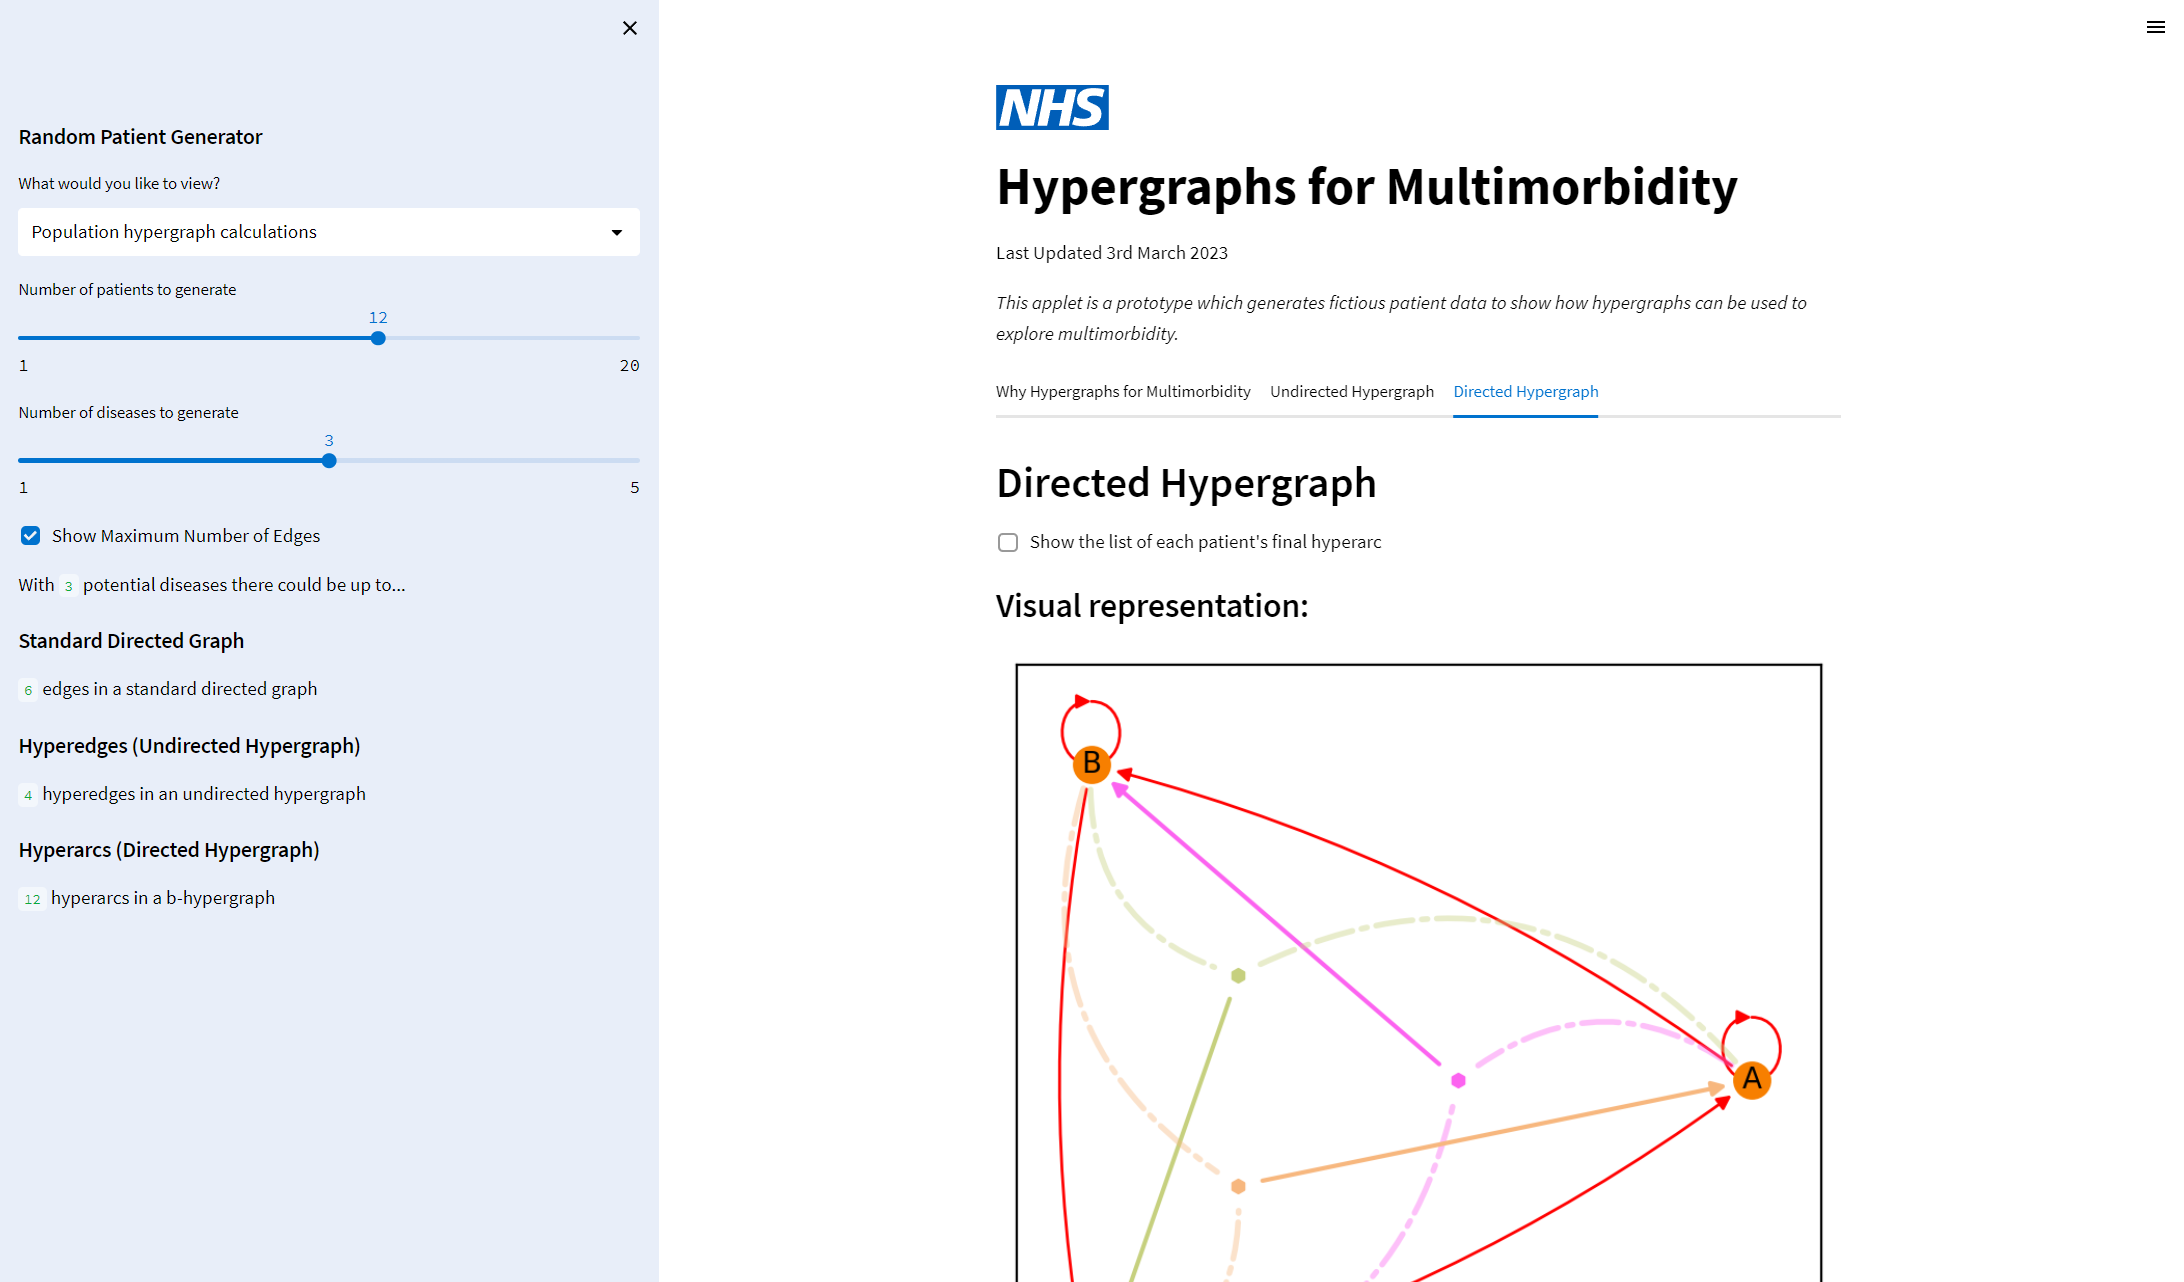
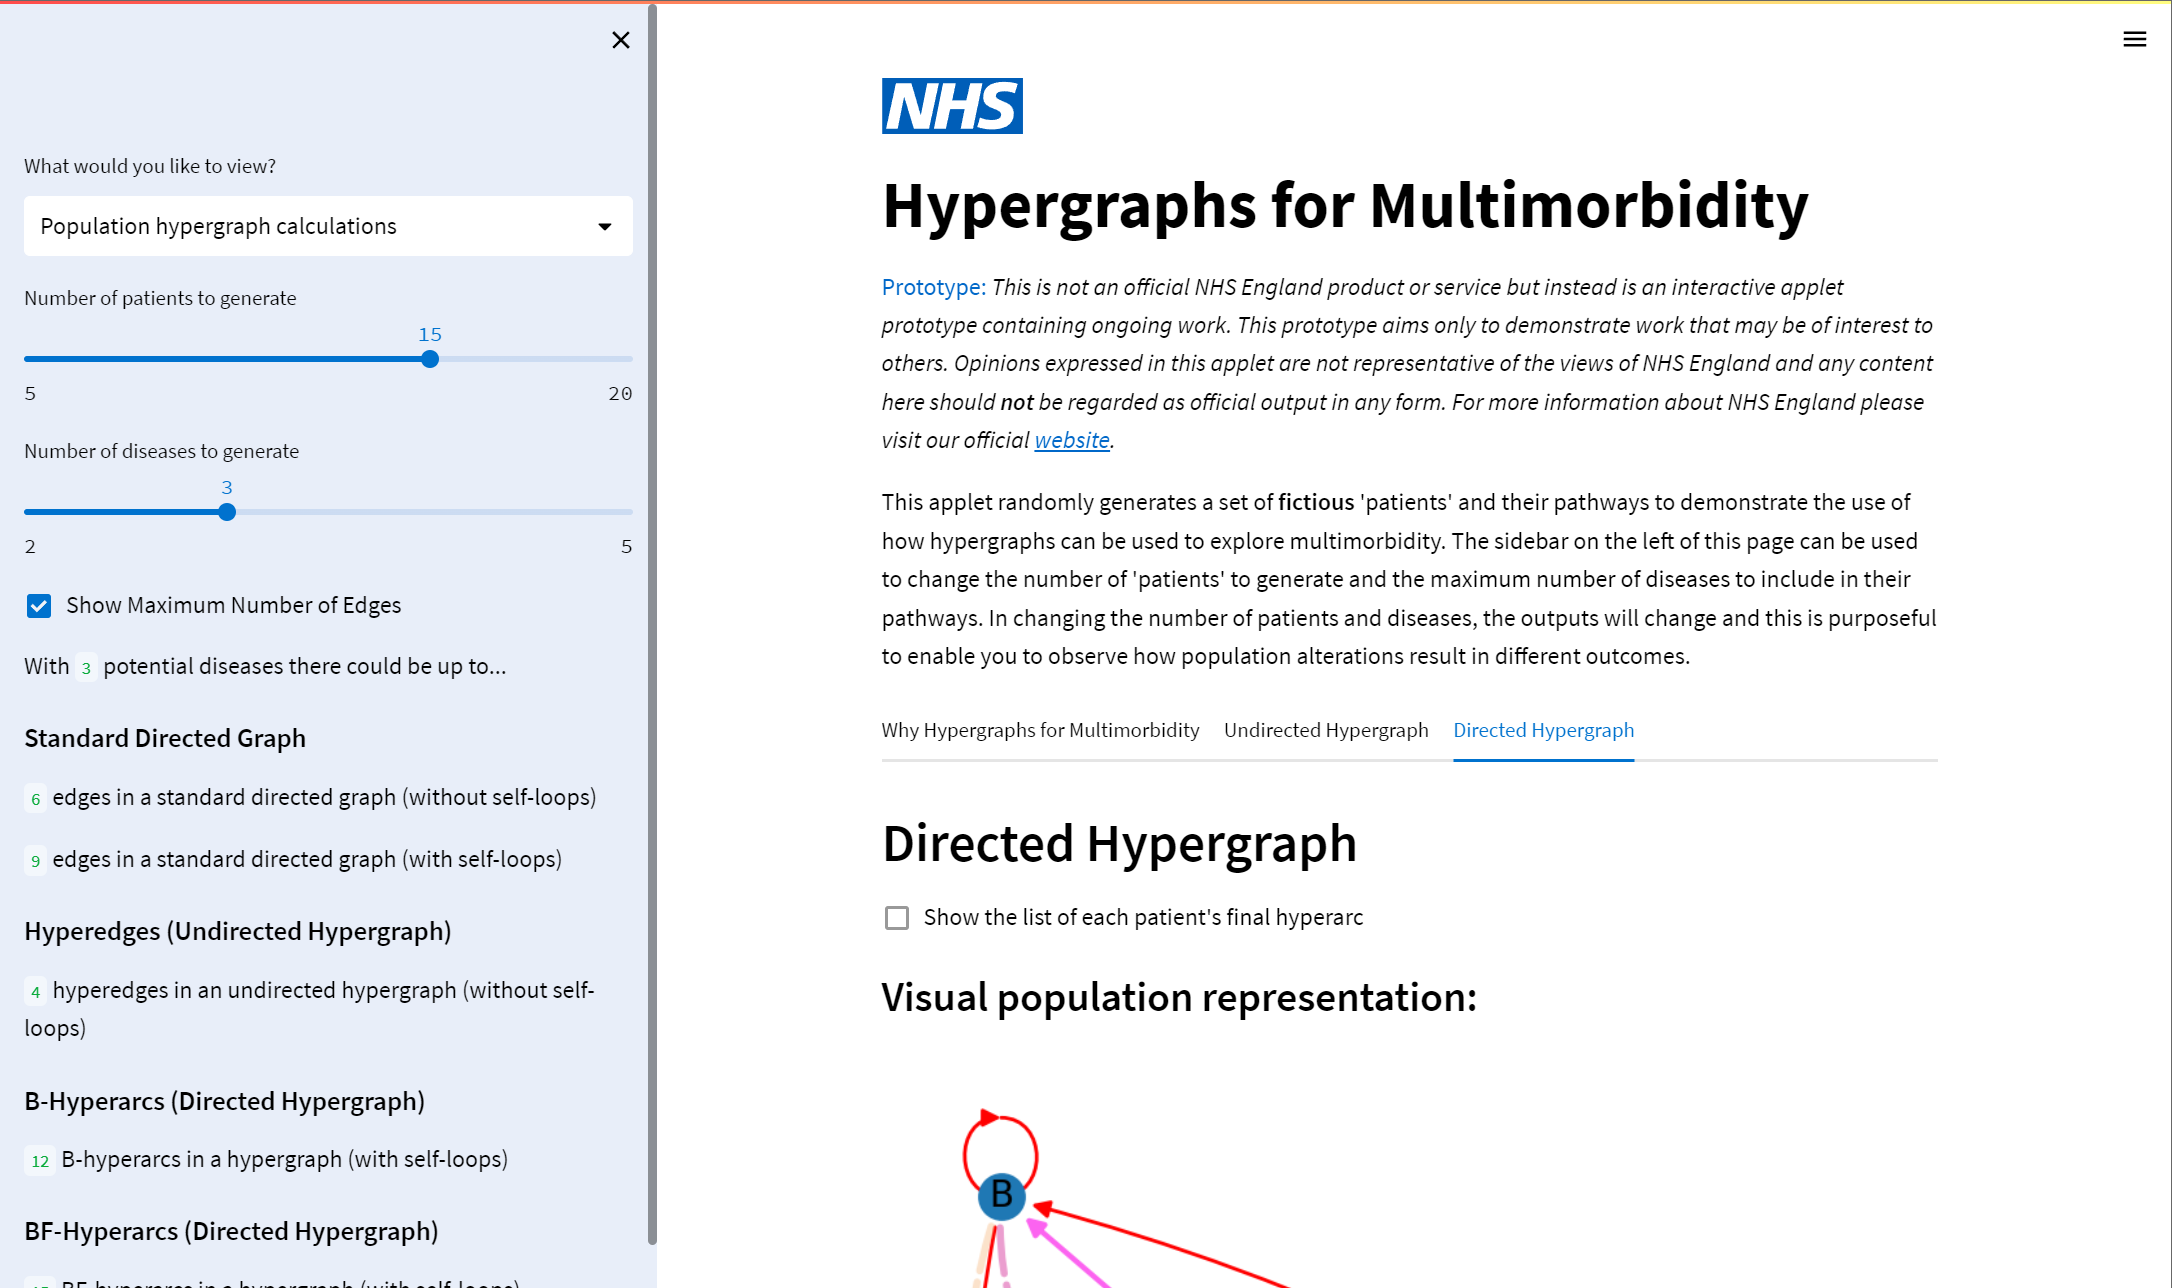
README updated, how to test and disclaimer added.

diff --git a/streamlit_hypergraphs.py b/streamlit_hypergraphs.py
@@ -574,4 +574,4 @@ elif view_choice == "Most likely cause(s) of disease":
 # TODO: NUMBA explained (why we need it and the 3 worklists)
 
 st.markdown("-" * 50)
-st.text("Last Updated 20th April 2023 \t\t\t\t\t Version 0.1.0")
+st.text("Last Updated 28th April 2023 \t\t\t\t\t Version 0.1.0")

diff --git a/README.md b/README.md
@@ -1,4 +1,4 @@
-# Hypergraphs
+# Hypergraphical
 
 A library of animations explaining hypergraphs using manim.
 
@@ -40,15 +40,24 @@ Please find a colab workbook here:
 
 ----------------------
 
-_The section below probably needs integrating in better with the animation stuff, but I've kept it seperate for now_
 
 # Hypergraphs for Multimorbidity
 
 This tool has been built using Streamlit, a Python app framework that can be used to create web apps. This Streamlit app allows users to explore hypergraphs in the context of multimoribidity. 
 
-The Streamlit app explains what multimorbidity is, what hypergraphs are and why hypergraphs are useful for modelling multimoribidity.
+_This is not an official NHS England product or service but instead is an interactive applet prototype containing ongoing work.
+This prototype aims only to demonstrate work that may be of interest to others.
+Opinions expressed in this applet are not representative of the views of NHS England
+and any content here should __not__ be regarded as official output in any form.
+For more information about NHS England please visit our official 
+[website](https://www.england.nhs.uk/)._
 
-Users can input the number of fictious patients and diseases to randomly generate hypergraphs (undirected and directed) to represent the population.
+The Streamlit applet explains what multimorbidity is, what hypergraphs are and why hypergraphs are useful for modelling multimoribidity. This applet randomly generates a set of __fictious__ 'patients' and their pathways to 
+demonstrate the use of how hypergraphs can be used to explore multimorbidity. The 
+sidebar on the left of this page can be used to change the number of 'patients' to 
+generate and the maximum number of diseases to include in their pathways.
+In changing the number of patients and diseases, the hypergraph outputs will change 
+and this is purposeful to enable you to observe how population alterations result in different outcomes.
 
 Users can follow through the examples to find out how the hypergraph-mm works by generating hyperedge and hyperarc weights for the population, followed by calculating centrality to show the importance of different diseases within the population. 
 
@@ -82,4 +91,6 @@ Streamlit will then render the tool and display it in your default web browser a
 http://localhost:8501/
 ```
 
-_In the future we could deploy this app so that GitHub isn't required_
+## Testing
+
+Run tests by using `pytest test_streamlit/test_edge_count.py`.
